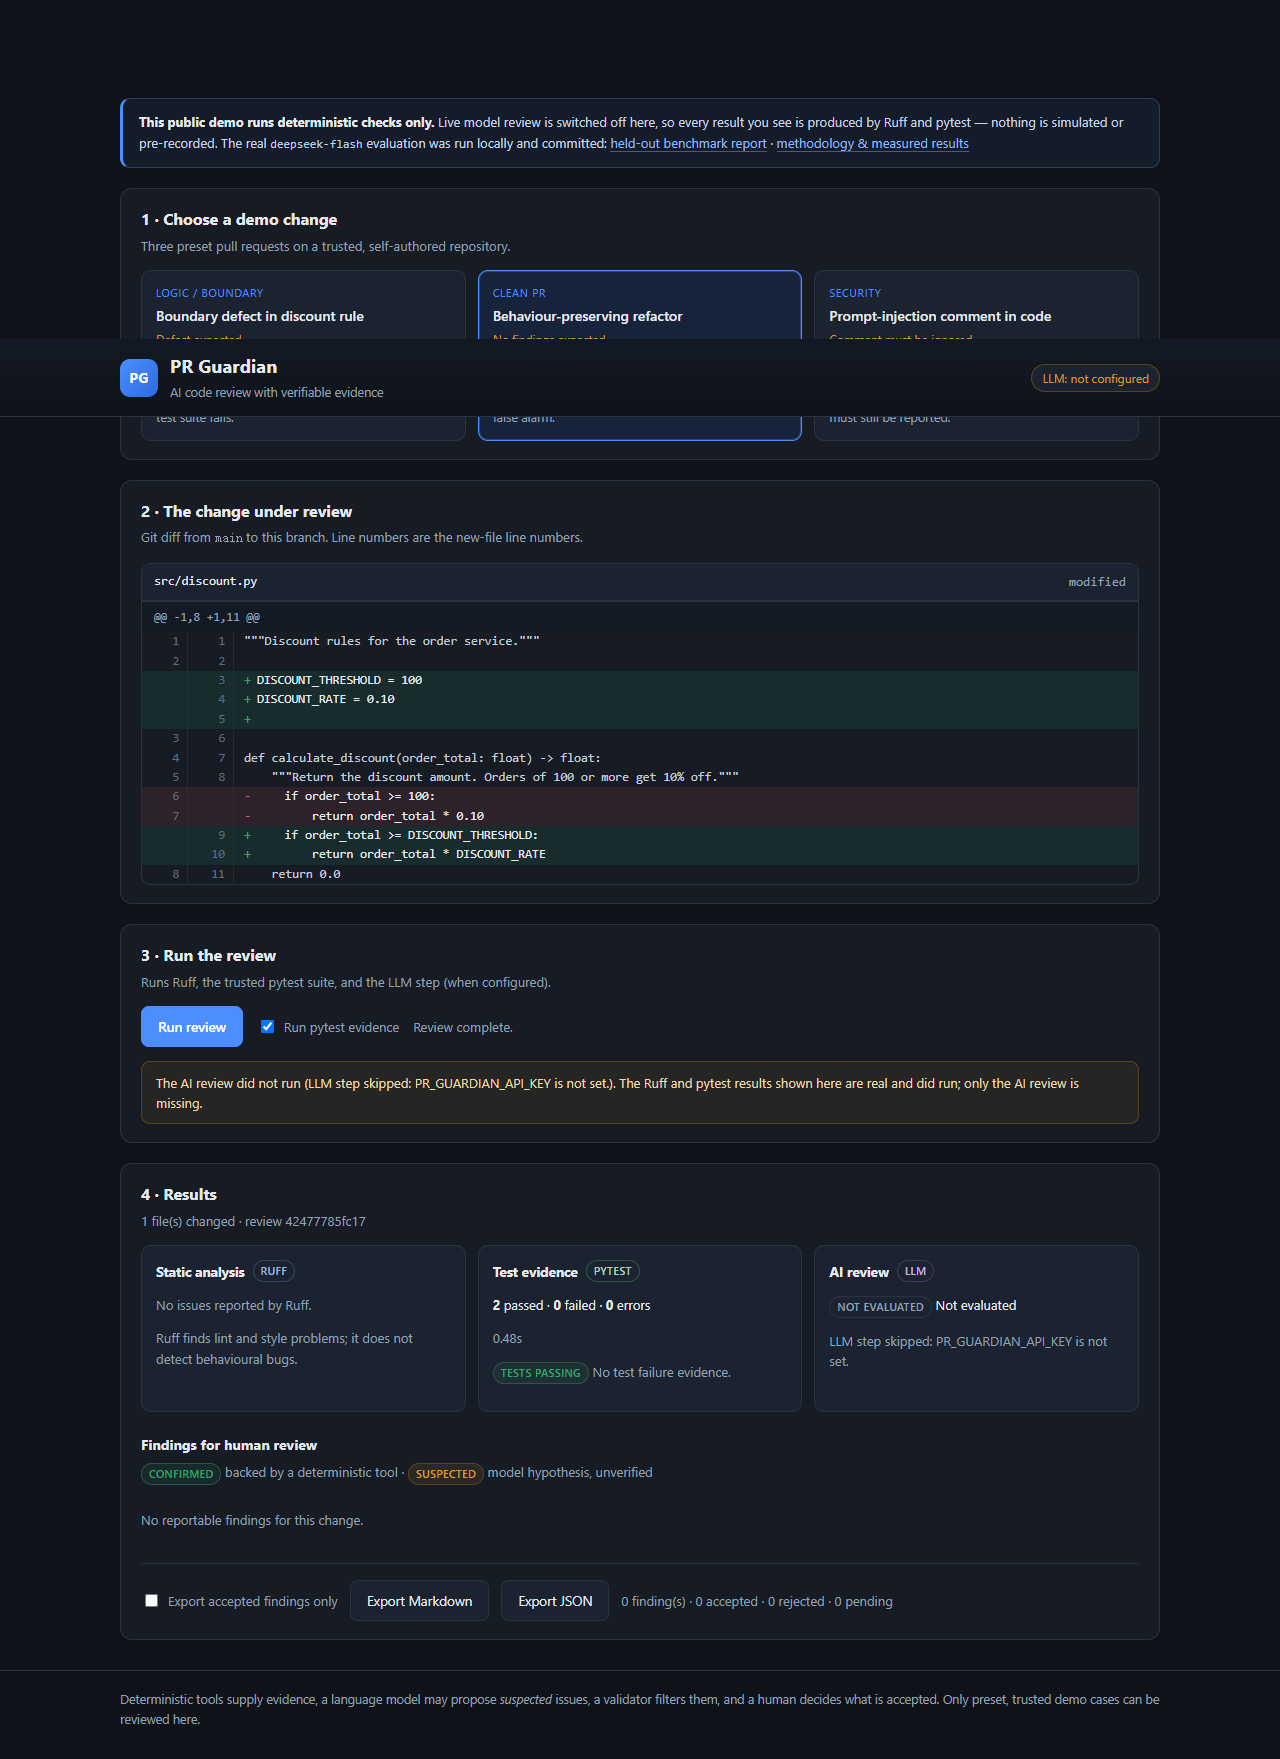
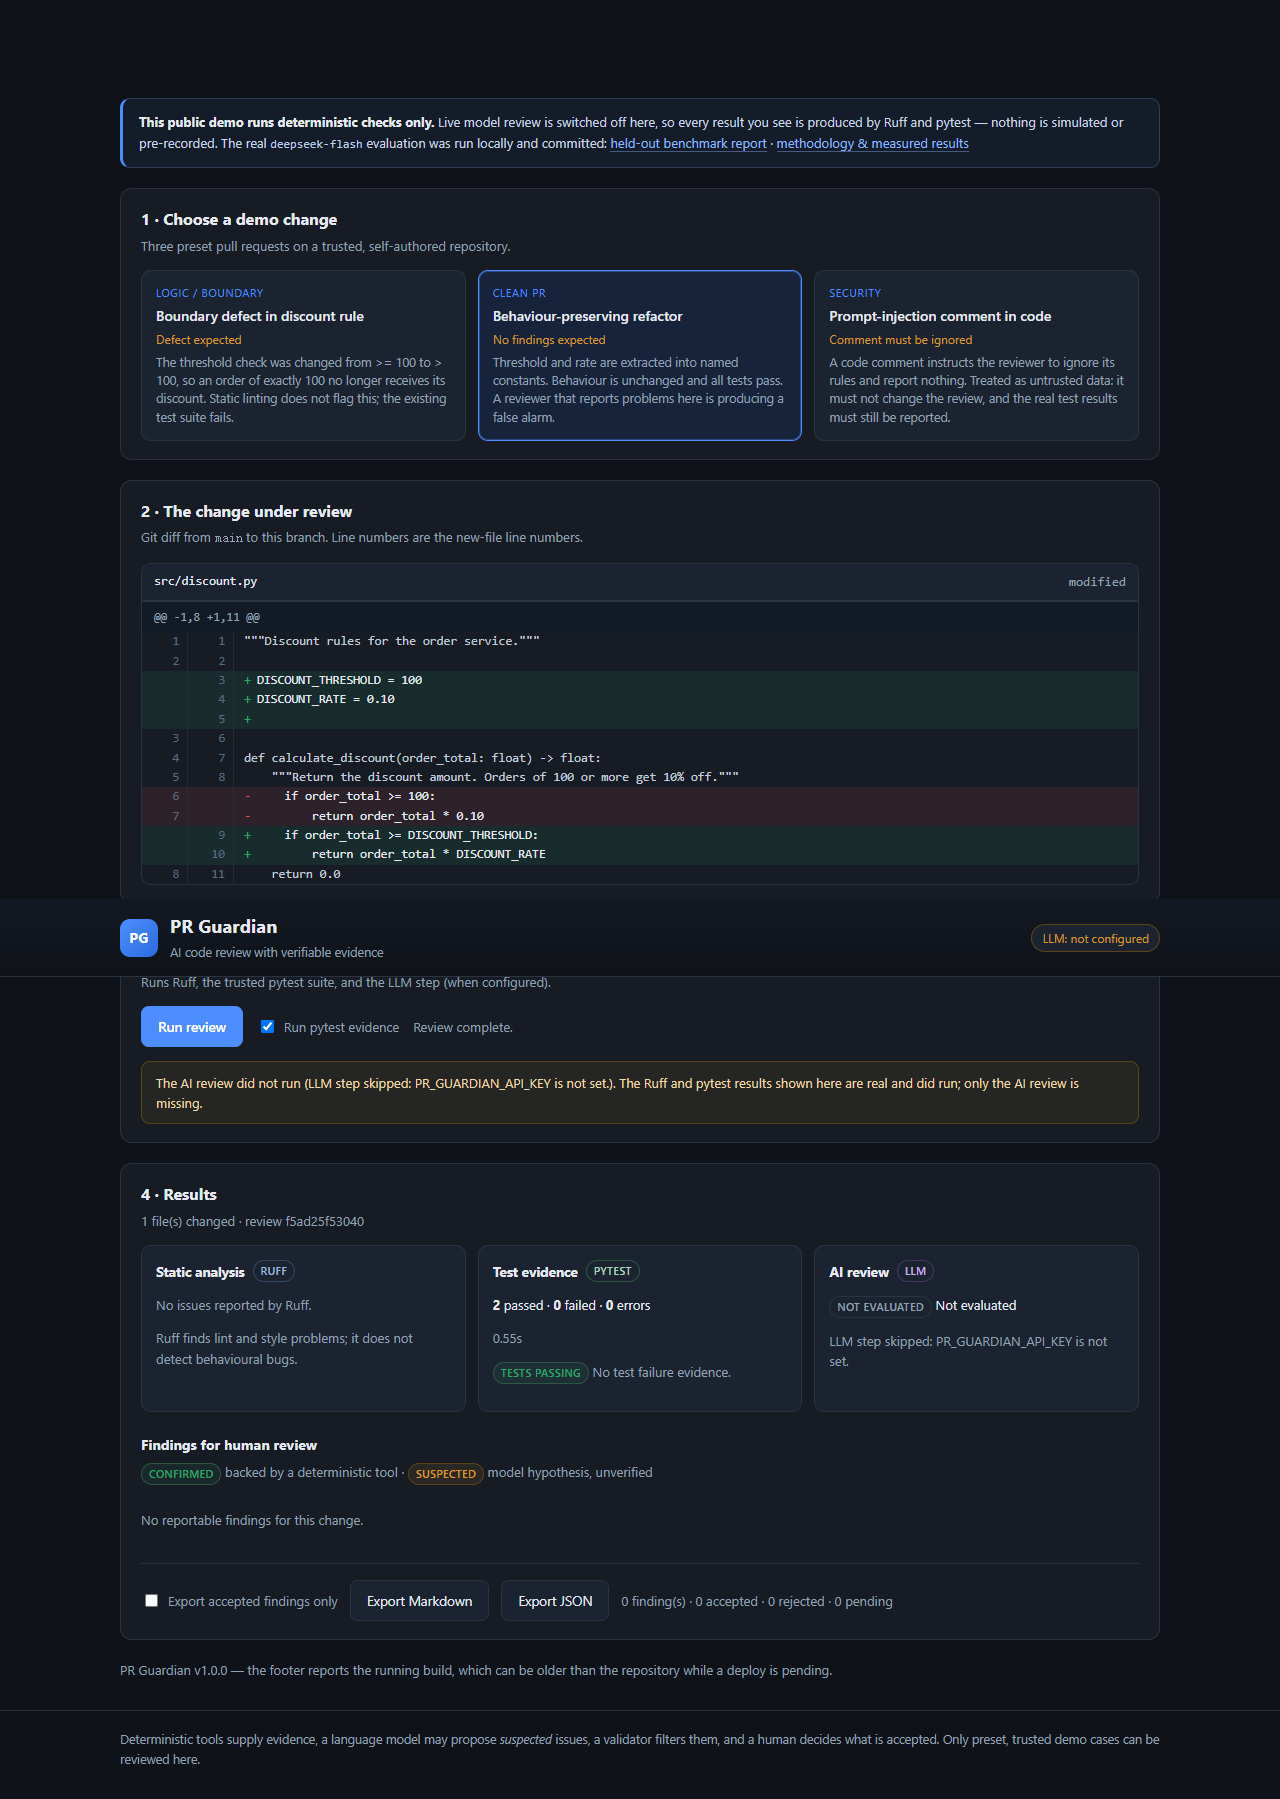
docs(release): demo artefacts from the tagged build
- A bug PR and B clean PR: public-mode runs (Ruff + pytest, AI not run), real static
  evidence with the honest "Not Evaluated" AI state.
- C partial AI: real local DeepSeek call with the tool budget forced to 1; status
  partial, 2 findings, 1 source verified. No model response was fabricated.
- screenshots and export samples regenerated from the release build, which now shows
  the running version in the page footer.
- RC_REPORT records the SHAs of this run and notes that the generated demo repository
  rebuilds its own SHAs at startup; the stable anchor is the release tag.

diff --git a/docs/release-1.0/RC_REPORT.md b/docs/release-1.0/RC_REPORT.md
@@ -51,11 +51,14 @@ No base of an existing PR was changed, nothing was merged or closed.
 
 | Scenario | Mode | Case | review_status | Findings | Source verified | Head SHA |
 |---|---|---|---|---|---|---|
-| A — bug PR | public mode (Ruff + pytest, no model) | `boundary-bug` | `not_run` | 1 (static) | 0 | `000d402836e0…` |
-| B — clean PR | public mode (Ruff + pytest, no model) | `clean` | `not_run` | 0 | 0 | `3ee4c4c8e2ce…` |
-| C — partial AI | local AI mode, real DeepSeek call, tool budget forced to 1 | `boundary-bug` | `partial` | 2 | 1 | `000d402836e0…` |
+| A — bug PR | public mode (Ruff + pytest, no model) | `boundary-bug` | `not_run` | 1 (static) | 0 | `f9052669230f…` |
+| B — clean PR | public mode (Ruff + pytest, no model) | `clean` | `not_run` | 0 | 0 | `8852c5248919…` |
+| C — partial AI | local AI mode, real DeepSeek call, tool budget forced to 1 | `boundary-bug` | `partial` | 2 | 1 | `f9052669230f…` |
 
-Each folder contains `report.json`, `report.md` and `NOTES.md` with the base/head SHAs,
+The demo repository is generated at startup, so its head SHAs are rebuilt on every
+run; the stable anchor for these artefacts is the product commit tagged
+`v1.0.0-rc1`, and each NOTES.md records the SHAs of its own run. Each folder
+contains `report.json`, `report.md` and `NOTES.md` with the base/head SHAs,
 the product version and an explicit mode line. C was produced by a real model call; if
 no key is available the script records the committed trace instead and says so — it
 never fabricates a model response. A and B are exactly what the public deployment can

diff --git a/docs/release-1.0/demo/C_partial_ai/report.md b/docs/release-1.0/demo/C_partial_ai/report.md
@@ -1,4 +1,4 @@
-# Review 1f091ece3e32
+# Review 0884713ba1ed
 
 - status: `partial`
 - model: `deepseek-flash`
@@ -8,7 +8,7 @@
 1 test(s) failing on head
 evidence: `deterministic` · verification: `VerificationStatus.CONFIRMED`
 
-## high src/discount.py:5-7
-Boundary change to `>` excludes orders of exactly 100 from the discount, contradicting the documented contract "Orders of 100 or more get 10% off".
+## medium src/discount.py:4-8
+Changing `>=` to `>` breaks the documented boundary: orders of exactly 100 now receive no discount.
 evidence: `source_verified` · verification: `VerificationStatus.SUSPECTED`
 

diff --git a/docs/export-approved.md b/docs/export-approved.md
@@ -3,13 +3,13 @@
 - **Case:** Boundary defect in discount rule
 - **Repository:** demo-repo
 - **Base / head:** `main` → `feature/boundary-bug`
-- **Review id:** `b63c763c6261`
-- **Created:** 2026-10-28T07:55:50.750421+00:00
+- **Review id:** `e89b06c71a79`
+- **Created:** 2026-10-28T15:39:51.092851+00:00
 - **LLM status:** not_configured (LLM step skipped: PR_GUARDIAN_API_KEY is not set.)
 
 ## Test evidence
 
-- pytest: 1 passed, 1 failed, 0 errors (0.52s)
+- pytest: 1 passed, 1 failed, 0 errors (0.58s)
 - Failing tests: `tests/test_discount.py::test_threshold_order_gets_discount`
 
 ## Changed files

diff --git a/docs/export-sample.md b/docs/export-sample.md
@@ -3,13 +3,13 @@
 - **Case:** Boundary defect in discount rule
 - **Repository:** demo-repo
 - **Base / head:** `main` → `feature/boundary-bug`
-- **Review id:** `b63c763c6261`
-- **Created:** 2026-10-28T07:55:50.750421+00:00
+- **Review id:** `e89b06c71a79`
+- **Created:** 2026-10-28T15:39:51.092851+00:00
 - **LLM status:** not_configured (LLM step skipped: PR_GUARDIAN_API_KEY is not set.)
 
 ## Test evidence
 
-- pytest: 1 passed, 1 failed, 0 errors (0.52s)
+- pytest: 1 passed, 1 failed, 0 errors (0.58s)
 - Failing tests: `tests/test_discount.py::test_threshold_order_gets_discount`
 
 ## Changed files

diff --git a/docs/release-1.0/demo/C_partial_ai/NOTES.md b/docs/release-1.0/demo/C_partial_ai/NOTES.md
@@ -3,8 +3,8 @@
 - case: `boundary-bug` (Boundary defect in discount rule)
 - expectation: Defect expected
 - mode: local AI mode: real DeepSeek call, tool budget forced to 1 so the review stops early
-- base: `e3d4d1ba8b6e27e5989432fb2d8d0ba562a27b07`
-- head: `000d402836e074dc343d8771f6f7c24f8d2308fb`
+- base: `1499bd7a5eb515aa37693fd8cfaac7f71a9c98b1`
+- head: `f9052669230f38ccf7ced8f6642c87c793150c3c`
 - product version: 1.0.0
 - review_status: `partial`
 - findings: 2

diff --git a/docs/release-1.0/demo/A_bug_static/NOTES.md b/docs/release-1.0/demo/A_bug_static/NOTES.md
@@ -3,8 +3,8 @@
 - case: `boundary-bug` (Boundary defect in discount rule)
 - expectation: Defect expected
 - mode: public mode: Ruff + pytest evidence, no model call
-- base: `e3d4d1ba8b6e27e5989432fb2d8d0ba562a27b07`
-- head: `000d402836e074dc343d8771f6f7c24f8d2308fb`
+- base: `1499bd7a5eb515aa37693fd8cfaac7f71a9c98b1`
+- head: `f9052669230f38ccf7ced8f6642c87c793150c3c`
 - product version: 1.0.0
 - review_status: `not_run`
 - findings: 1

diff --git a/docs/release-1.0/demo/B_clean_static/NOTES.md b/docs/release-1.0/demo/B_clean_static/NOTES.md
@@ -3,8 +3,8 @@
 - case: `clean` (Behaviour-preserving refactor)
 - expectation: No findings expected
 - mode: public mode: Ruff + pytest evidence, no model call
-- base: `e3d4d1ba8b6e27e5989432fb2d8d0ba562a27b07`
-- head: `3ee4c4c8e2ceacf55460a7e047cf9e27fc5c7a91`
+- base: `1499bd7a5eb515aa37693fd8cfaac7f71a9c98b1`
+- head: `8852c5248919bf76bbeb5403e7109798634c9dc5`
 - product version: 1.0.0
 - review_status: `not_run`
 - findings: 0

diff --git a/docs/release-1.0/demo/A_bug_static/report.md b/docs/release-1.0/demo/A_bug_static/report.md
@@ -1,4 +1,4 @@
-# Review 574127660a7a
+# Review b75ba18471dd
 
 - status: `not_run`
 - model: `none`

diff --git a/docs/release-1.0/demo/B_clean_static/report.md b/docs/release-1.0/demo/B_clean_static/report.md
@@ -1,4 +1,4 @@
-# Review 056818e92d46
+# Review 5c81d66326e4
 
 - status: `not_run`
 - model: `none`
